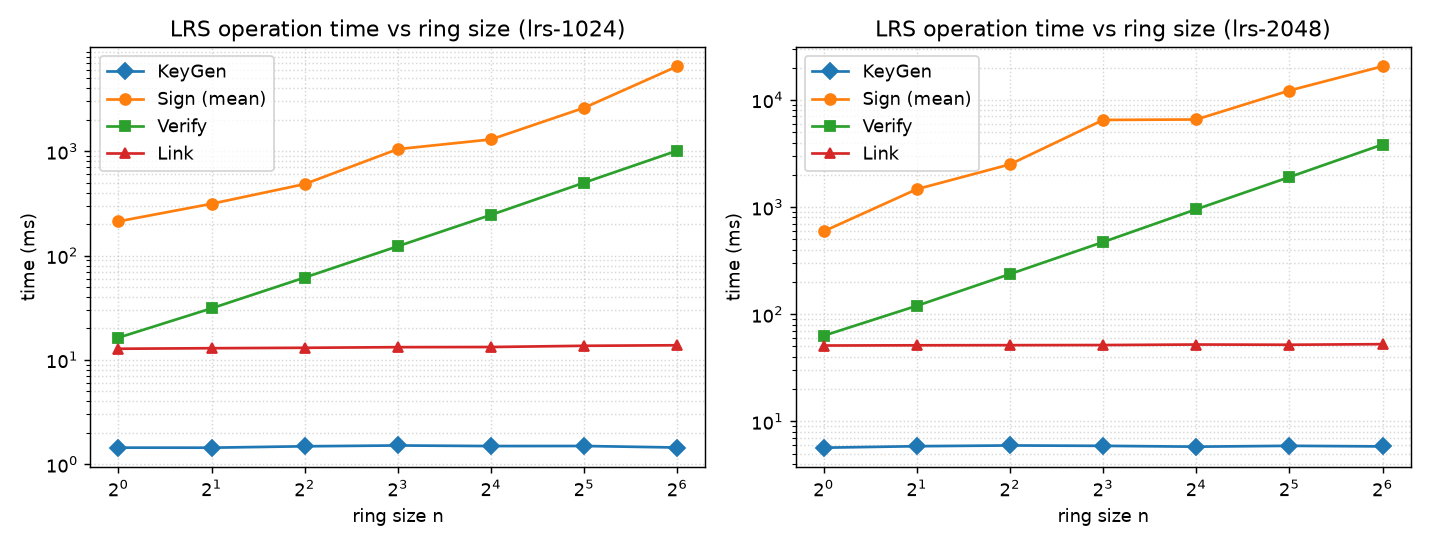
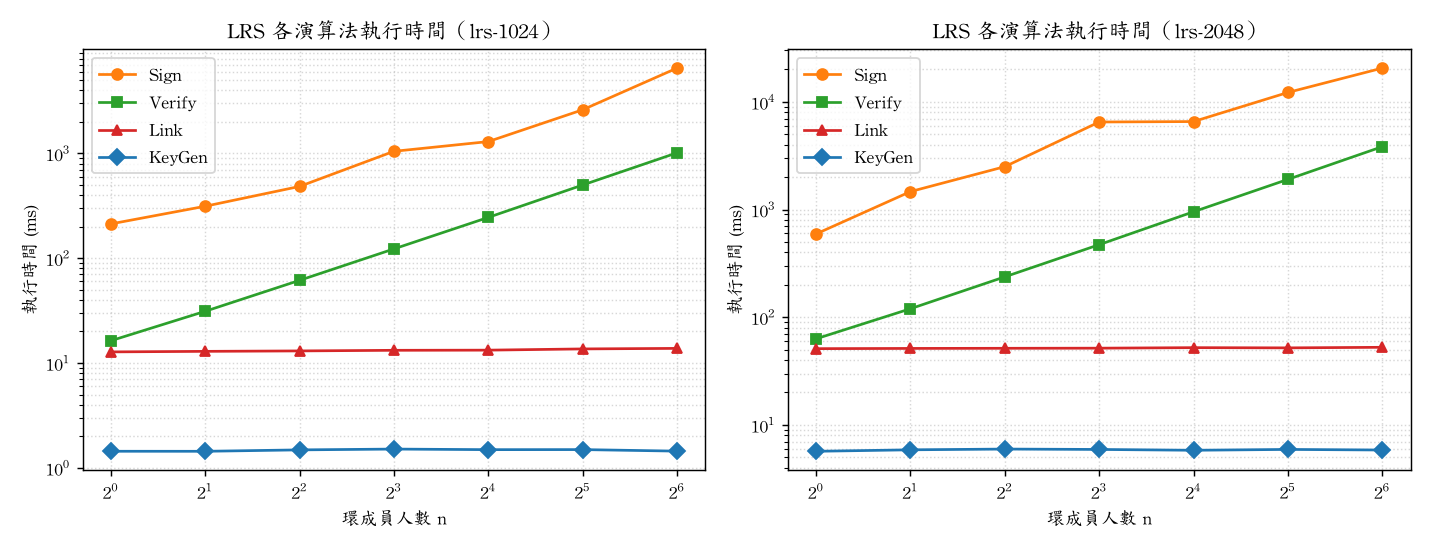
Localize Table B chart to Chinese; order legend to match line stacking
Title, x/y axis labels are now Chinese, set in 標楷體 via a font-candidate
list (BiauKaiTC on macOS, DFKai-SB on Windows, Kaiti/STKaiti as fallbacks).
Prints a warning instead of silently rendering tofu boxes when none is
installed.

Curves are plotted in the order they actually stack (Sign > Verify > Link >
KeyGen at every n, verified against benchmark_full.json) so the legend reads
top-to-bottom like the lines. Colors are pinned to C1/C2/C3/C0 so the
reordering does not reshuffle the default color cycle.

Legend drops the "(mean)" qualifier on Sign; the arithmetic-mean note stays
in table_B_scaling.md.

diff --git a/make_tables.py b/make_tables.py
@@ -9,7 +9,20 @@ import json, os
 import numpy as np
 import matplotlib
 matplotlib.use("Agg")
+import matplotlib.font_manager as fm
 import matplotlib.pyplot as plt
+
+# Chart labels are Chinese set in 標楷體; matplotlib's default DejaVu Sans has
+# no CJK glyphs. macOS ships 標楷體 as BiauKaiTC; Windows names it DFKai-SB.
+KAI_FONTS = ["BiauKaiTC", "BiauKaiHK", "DFKai-SB", "Kaiti TC", "STKaiti", "Kaiti SC"]
+_avail = {f.name for f in fm.fontManager.ttflist}
+_pick = next((f for f in KAI_FONTS if f in _avail), None)
+if _pick:
+    plt.rcParams["font.sans-serif"] = [_pick] + plt.rcParams["font.sans-serif"]
+else:
+    print("WARNING: 找不到標楷體字型，圖上中文將顯示為豆腐框"
+          " (install one of: %s)" % ", ".join(KAI_FONTS))
+plt.rcParams["axes.unicode_minus"] = False
 
 R = "results"
 os.makedirs(R, exist_ok=True)
@@ -92,13 +105,16 @@ for ax, (param, Nval, tag) in zip((ax1, ax2), PARAM_SETS):
     sign = [get(n)["sign_ms"] for n in ns]
     ver  = [get(n)["verify_ms"] for n in ns]
     lk   = [get(n)["link_ms"] for n in ns]
-    ax.plot(ns, kg, "D-", label="KeyGen")
-    ax.plot(ns, sign, "o-", label="Sign (mean)")
-    ax.plot(ns, ver, "s-", label="Verify")
-    ax.plot(ns, lk, "^-", label="Link")
+    # Plotted top-to-bottom as the curves actually stack (Sign > Verify > Link >
+    # KeyGen at every n), so the legend reads in the same order as the lines.
+    # Colors are pinned so reordering does not reshuffle the default cycle.
+    ax.plot(ns, sign, "o-", color="C1", label="Sign")
+    ax.plot(ns, ver, "s-", color="C2", label="Verify")
+    ax.plot(ns, lk, "^-", color="C3", label="Link")
+    ax.plot(ns, kg, "D-", color="C0", label="KeyGen")
     ax.set_xscale("log", base=2); ax.set_yscale("log")
-    ax.set_xlabel("ring size n"); ax.set_ylabel("time (ms)")
-    ax.set_title(f"LRS operation time vs ring size ({param})")
+    ax.set_xlabel("環成員人數 n"); ax.set_ylabel("執行時間 (ms)")
+    ax.set_title(f"LRS 各演算法執行時間（{param}）")
     ax.legend(); ax.grid(True, which="both", ls=":", alpha=0.5)
 fig.tight_layout(); fig.savefig(rp("table_B_scaling.png"), dpi=130)
 plt.close(fig)
